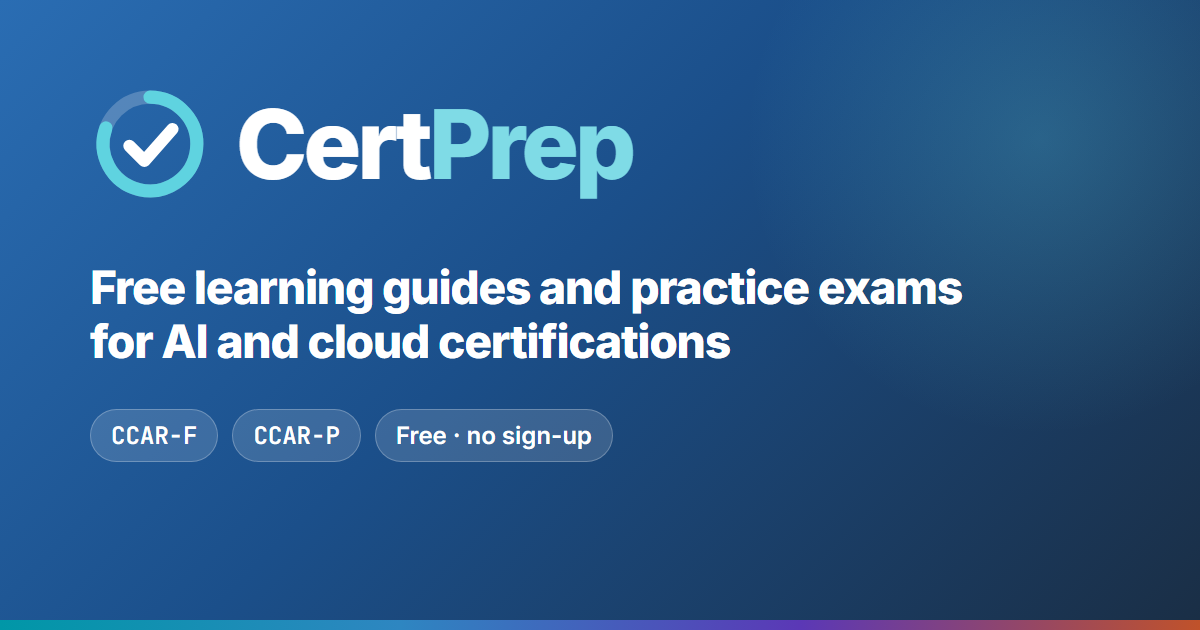
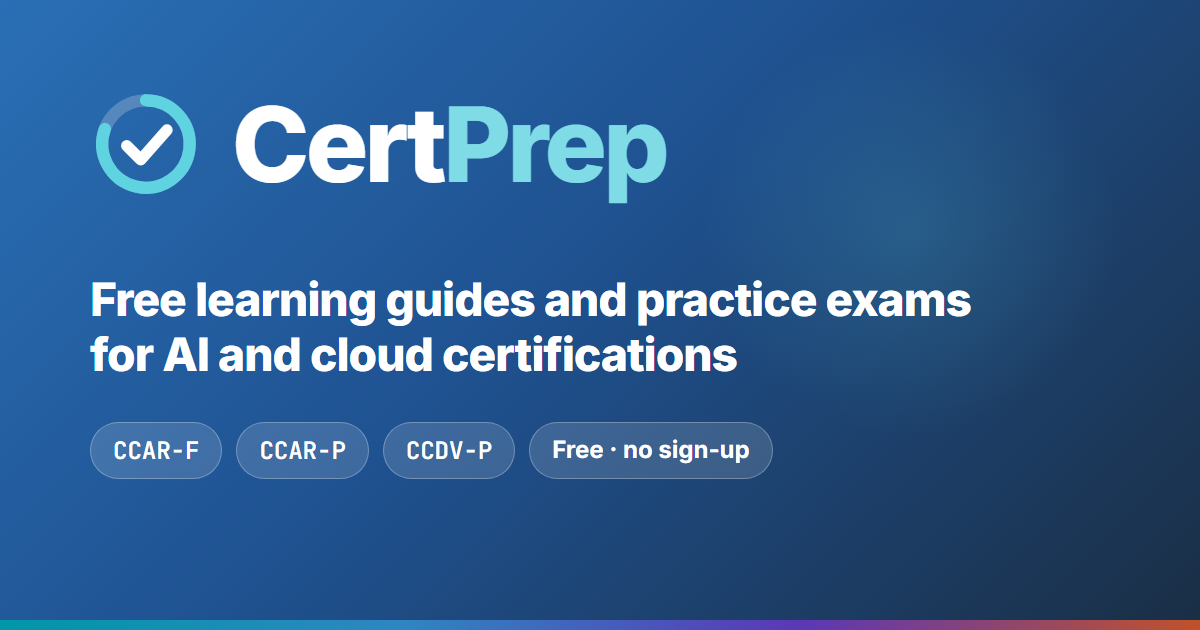
Home page title, description and FAQ, link-preview image, feedback labels and README include CCDV-P and both CCAR-P versions

diff --git a/index.html b/index.html
@@ -7,8 +7,8 @@
 <meta http-equiv="Pragma" content="no-cache">
 <meta http-equiv="Expires" content="0">
 
-<title>Certification Learning Guides and Practice Exams - Claude CCAR-F and CCAR-P</title>
-<meta name="description" content="Free certification learning guides and scenario-based practice exams. Claude CCAR-F has a 30-lesson learning guide and 120 questions; CCAR-P has a 38-lesson guide and 126 questions. Each exam also has a printable cheat sheet, and every practice test has rationales, documentation links and timed exams.">
+<title>Certification Learning Guides and Practice Exams - Claude CCAR-F, CCAR-P and CCDV-P</title>
+<meta name="description" content="Free certification learning guides and scenario-based practice exams for Claude CCAR-F, CCAR-P (versions 1.1 and 1.0) and CCDV-P. Every exam has a learning guide, a printable cheat sheet and timed practice tests with rationales and documentation links.">
 <meta name="robots" content="index, follow, max-snippet:-1, max-image-preview:large">
 <meta name="author" content="PraTech Labs">
 <link rel="canonical" href="https://certprep.pratechlabs.com/">
@@ -16,11 +16,11 @@
 <meta property="og:type" content="website">
 <meta property="og:url" content="https://certprep.pratechlabs.com/">
 <meta property="og:site_name" content="Certification Learning Guides and Practice Exams">
-<meta property="og:title" content="Certification Learning Guides and Practice Exams - Claude CCAR-F and CCAR-P">
-<meta property="og:description" content="Free certification learning guides and scenario-based practice exams. Claude CCAR-F has a 30-lesson learning guide and 120 questions; CCAR-P has a 38-lesson guide and 126 questions. Each exam also has a printable cheat sheet, and every practice test has rationales, documentation links and timed exams.">
+<meta property="og:title" content="Certification Learning Guides and Practice Exams - Claude CCAR-F, CCAR-P and CCDV-P">
+<meta property="og:description" content="Free certification learning guides and scenario-based practice exams for Claude CCAR-F, CCAR-P (versions 1.1 and 1.0) and CCDV-P. Every exam has a learning guide, a printable cheat sheet and timed practice tests with rationales and documentation links.">
 <meta name="twitter:card" content="summary_large_image">
-<meta name="twitter:title" content="Certification Learning Guides and Practice Exams - Claude CCAR-F and CCAR-P">
-<meta name="twitter:description" content="Free certification learning guides and scenario-based practice exams. Claude CCAR-F has a 30-lesson learning guide and 120 questions; CCAR-P has a 38-lesson guide and 126 questions. Each exam also has a printable cheat sheet, and every practice test has rationales, documentation links and timed exams.">
+<meta name="twitter:title" content="Certification Learning Guides and Practice Exams - Claude CCAR-F, CCAR-P and CCDV-P">
+<meta name="twitter:description" content="Free certification learning guides and scenario-based practice exams for Claude CCAR-F, CCAR-P (versions 1.1 and 1.0) and CCDV-P. Every exam has a learning guide, a printable cheat sheet and timed practice tests with rationales and documentation links.">
 
 <!--site-icons-->
 <link rel="icon" href="/favicon.svg" type="image/svg+xml">
@@ -143,7 +143,7 @@
 
   <section class="faq">
     <h2>Frequently asked questions</h2>
-    <details><summary>Which certifications are covered?</summary><p>Claude (Anthropic) certifications today: Claude Certified Architect - Foundations (CCAR-F) and Professional (CCAR-P), each with a learning guide, a cheat sheet and practice tests. AWS practice exams are in preparation, and more exams are added as their official guides are published.</p></details>
+    <details><summary>Which certifications are covered?</summary><p>Claude (Anthropic) certifications today: Claude Certified Architect - Foundations (CCAR-F), Claude Certified Architect - Professional (CCAR-P, in versions 1.1 and 1.0) and Claude Certified Developer - Professional (CCDV-P), each with a learning guide, a cheat sheet and practice tests. AWS practice exams are in preparation, and more exams are added as their official guides are published.</p></details>
     <details><summary>Is it really free?</summary><p>Yes. Every learning guide, cheat sheet and practice test on this site is free, and none of it needs an account.</p></details>
     <details><summary>Do I need to sign in?</summary><p>No. Everything works without an account, and your progress is saved in your browser. Signing in is optional and free: use Google, or your email with a one-time link and code (there is no password). Your practice test scores, answers and completed lessons are then saved to your account, so you can start on your laptop and carry on from your phone or another browser. Signing out clears them from that browser, and signing back in brings them back. See the <a href="/privacy/">privacy policy</a> for what is stored.</p></details>
     <details><summary>Are these real exam questions?</summary><p>No. Every lesson and question is original, written from the public exam guides and the providers' documentation. Live exam content is confidential, and nothing here comes from a real exam.</p></details>

diff --git a/feedback.js b/feedback.js
@@ -8,7 +8,7 @@
     K='eyJhbGciOiJIUzI1NiIsInR5cCI6IkpXVCJ9.eyJpc3MiOiJzdXBhYmFzZSIsInJlZiI6InZ1emR5cG1sZnBlc2xzZmV6YXBkIiwicm9sZSI6ImFub24iLCJpYXQiOjE3ODgzNjYyNDcsImV4cCI6MjEwMzk0MjI0N30.UGbcFwFLeKnTITJLQm8QO4YPn1hDhWe8ptz1-QJ19ik',
     WAIT=60*1000,LAST='cp-fb-at';
   var CATS=[['content','A mistake in the content'],['guide','Learning guide or lesson'],['cheat','Cheat sheet'],['tests','Practice tests or questions'],['site','Something not working'],['idea','A suggestion'],['other','Something else']];
-  var EXAMS={'ccar-f':'CCAR-F','ccar-p':'CCAR-P Version 1','ccar-p-v2':'CCAR-P Version 2'};
+  var EXAMS={'ccar-f':'CCAR-F','ccar-p':'CCAR-P Version 1.0','ccar-p-v2':'CCAR-P Version 1.1','ccdv-p':'CCDV-P'};
 
   // Where the reader is: an area label for the admin list, and the category to preselect.
   function where(){

diff --git a/README.md b/README.md
@@ -6,7 +6,9 @@ https://certprep.pratechlabs.com. Currently:
 | Exam | Learning guide | Practice tests |
 |---|---|---|
 | Claude Certified Architect - Foundations (CCAR-F) | `/claude/ccar-f/learn/`: 30 lessons, 6 case studies, cheat sheet | `/claude/ccar-f/`: 120 questions, 2 fixed tests of 60 (120 min) |
-| Claude Certified Architect - Professional (CCAR-P) | `/claude/ccar-p/learn/`: 38 lessons, 4 case studies, cheat sheet | `/claude/ccar-p/`: 126 questions, 2 fixed tests of 63 (120 min) |
+| Claude Certified Architect - Professional (CCAR-P), Version 1.1 (exam guide 1.1) | `/claude/ccar-p-v2/learn/`: 39 lessons, 4 case studies, cheat sheet | `/claude/ccar-p-v2/`: 140 questions, 2 fixed tests of 70 (120 min) |
+| Claude Certified Architect - Professional (CCAR-P), Version 1.0 (exam guide 1.0, until 7 Dec 2026) | `/claude/ccar-p/learn/`: 38 lessons, 4 case studies, cheat sheet | `/claude/ccar-p/`: 126 questions, 2 fixed tests of 63 (120 min) |
+| Claude Certified Developer - Professional (CCDV-P) | `/claude/ccdv-p/learn/`: 25 lessons, 4 case studies, cheat sheet | `/claude/ccdv-p/`: 140 questions, 2 fixed tests of 70 (120 min) |
 
 AWS certifications are in preparation.
 
@@ -91,9 +93,13 @@ Generated files are never edited by hand. Build in this order:
 node tools/build.js <content-dir>                    # exams/*.js
 node tools/build-learn.js <content-dir> ccar-f       # each exam's guide, cheat sheet, search index
 node tools/build-learn.js <content-dir> ccar-p
+node tools/build-learn.js <content-dir> ccar-p-v2
+node tools/build-learn.js <content-dir> ccdv-p
 node tools/build-site.js <content-dir>               # shared chrome, /resources/, /privacy/, sitemap
 node tools/smoke.js claude/ccar-f/index.html         # before every deploy, for every exam
 node tools/smoke.js claude/ccar-p/index.html
+node tools/smoke.js claude/ccar-p-v2/index.html
+node tools/smoke.js claude/ccdv-p/index.html
 node tools/check-links.js                            # every documentation link is a real page
 node tools/serve.js                                  # http://localhost:8765 (root-absolute paths need a server)
 ```
